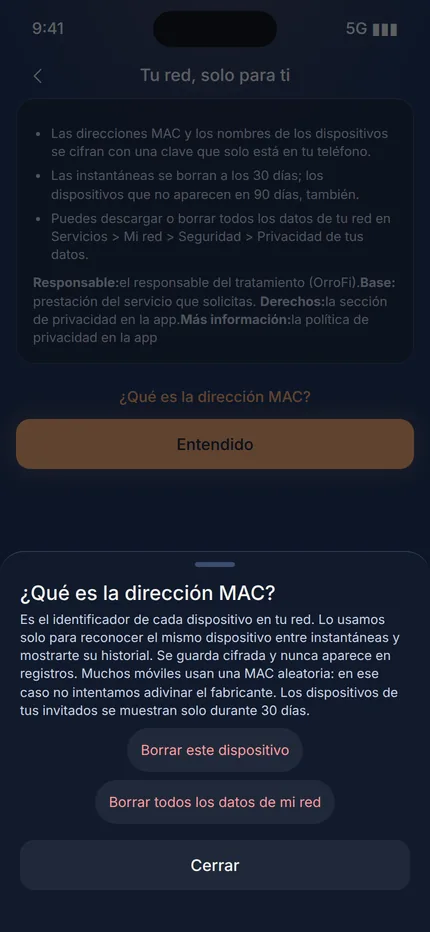
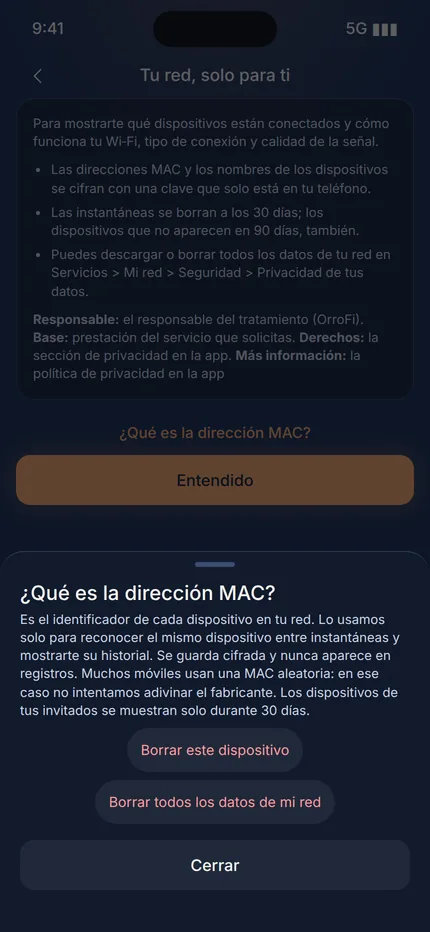
Map the services splash to the launch screen and fix legal-footer spacing.
Capture the prototype splash before it advances, and keep spaces around the privacy labels when placeholders are replaced.

Changed region(s): [[0.0302, 0.1245, 0.9674, 0.5601]]

diff --git a/uslugi/index.html b/uslugi/index.html
@@ -120,7 +120,7 @@
 </header>
 <div class="screen-copy"><p>Первый кадр встречает вас заставкой OrroFi и сразу отпускает дальше: ко входу или на главную, если телефон вас уже узнал.</p></div>
 <figure class="shot">
-<picture><source srcset="../assets/screens/ios/ios-home-es-dark.webp" type="image/webp"><img class="shot-img" src="../assets/screens/ios/ios-home-es-dark.png" alt="Экран OrroFi: Заставка" width="390" height="844" loading="lazy" decoding="async" data-fallback-src="../assets/screens/placeholder.svg"></picture>
+<picture><source srcset="../assets/screens/servicios-launch.webp" type="image/webp"><img class="shot-img" src="../assets/screens/servicios-launch.png" alt="Экран OrroFi: Заставка" width="390" height="844" loading="lazy" decoding="async" data-fallback-src="../assets/screens/placeholder.svg"></picture>
 <figcaption>Демонстрационные данные на кадре.</figcaption>
 </figure>
 </article><article class="screen-block" id="home">

diff --git a/assets/screens/index.md b/assets/screens/index.md
@@ -129,6 +129,7 @@
 | `servicios-fiber.png` | `fiber` | servicios | Fibra | Тариф и статус домашней оптики. |
 | `servicios-order.png` | `order` | servicios | Contratar | Начало заказа: адрес-пример и выбранный тариф оптики. |
 | `servicios-order-sum.png` | `order-sum` | servicios | Resumen del pedido | Сводка заказа: адрес-пример, тариф и окно визита. |
+| `servicios-launch.png` | `launch` | servicios | Primer arranque | Заставка OrroFi до входа. |
 
 ## No incluidos en assets
 

diff --git a/scripts/data/screen-shots-index.md b/scripts/data/screen-shots-index.md
@@ -129,6 +129,7 @@
 | `servicios-fiber.png` | `fiber` | servicios | Fibra | Тариф и статус домашней оптики. |
 | `servicios-order.png` | `order` | servicios | Contratar | Начало заказа: адрес-пример и выбранный тариф оптики. |
 | `servicios-order-sum.png` | `order-sum` | servicios | Resumen del pedido | Сводка заказа: адрес-пример, тариф и окно визита. |
+| `servicios-launch.png` | `launch` | servicios | Primer arranque | Заставка OrroFi до входа. |
 
 ## No incluidos en assets
 
